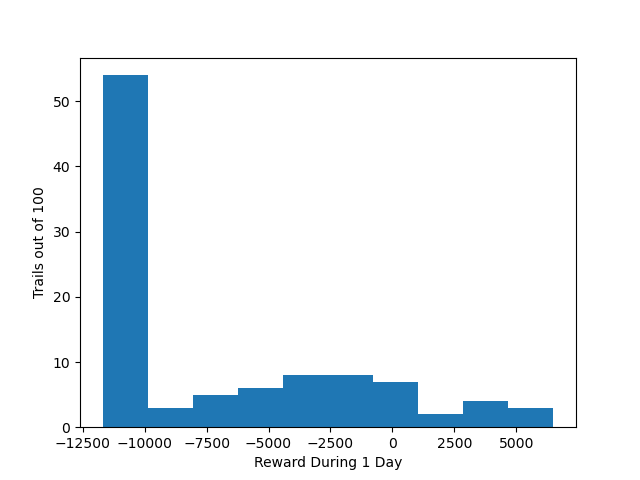
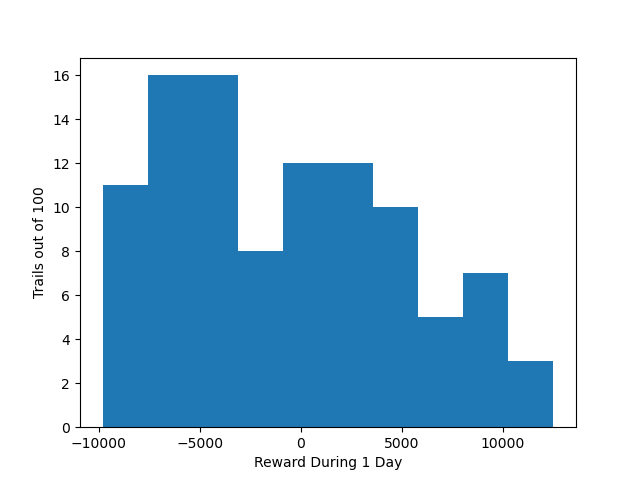
git fixed

diff --git a/src/results.py b/src/results.py
@@ -96,10 +96,10 @@ def testSampleVI(time = 1):
 
 if __name__ == "__main__":
     # testRandom(time = 1)
-    testGreedy(time = 1)
+    # testGreedy(time = 1)
     # testVI(time = 1)
-    # testSampleVI(time = 1)
-    # testDQN(time = 1)
+    testSampleVI(time = 1)
+    testDQN(time = 1)
 
     
 
